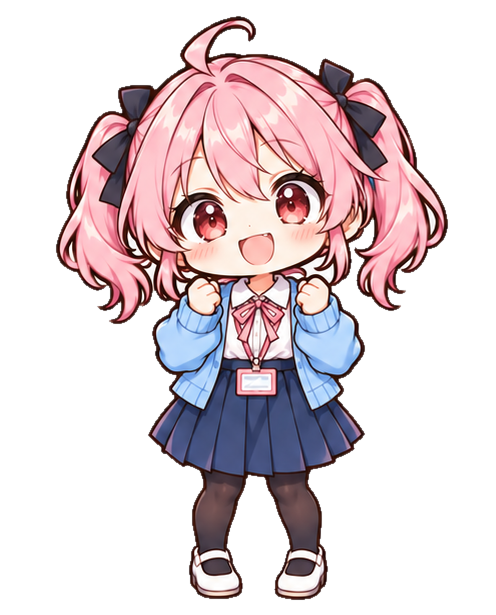
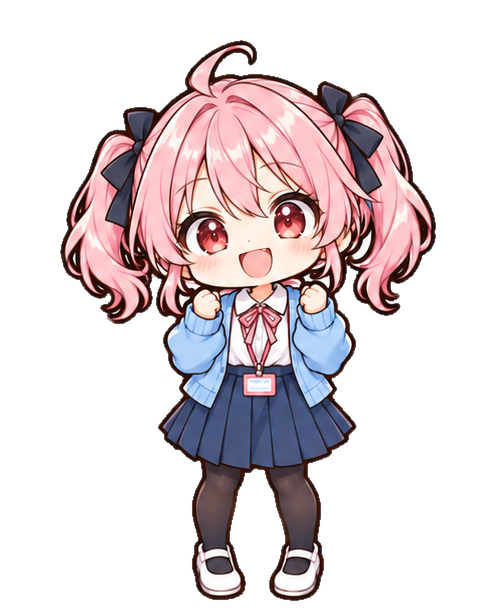
art: 基本ポーズのまばたき・口パク差分（目と口だけを位置合わせして差し替え）を追加

Changed region(s): [[0.0907, 0.0309, 0.9073, 0.9886], [0.5444, 0.8033, 0.6653, 0.9886]]

diff --git a/Tools/Make-FaceFrames.py b/Tools/Make-FaceFrames.py
@@ -1,0 +1,89 @@
+# まばたき・口パク用の差分を作る。2×2のシート（左上＝基本、他＝目や口だけ違う絵）から、
+# 基本の絵に「変わった顔の部分だけ」を位置合わせして重ね、体や髪が揺れない差分にする。
+# 使い方: py -3 Tools/Make-FaceFrames.py <シートPNG> <出力フォルダ> <接頭辞> <名前1,名前2,名前3,名前4>
+import sys
+from pathlib import Path
+import numpy as np
+from PIL import Image, ImageFilter
+sys.path.insert(0, str(Path(__file__).parent))
+from importlib import import_module
+cut = import_module("Cut-CharacterSheet")
+
+def cells(sheet):
+    img = cut.remove_background(Image.open(sheet))
+    w, h = img.size
+    out = []
+    for r in range(2):
+        for c in range(2):
+            cell = img.crop((c * w // 2, r * h // 2, (c + 1) * w // 2, (r + 1) * h // 2))
+            out.append(cell.crop(cell.getchannel("A").getbbox()))
+    return out
+
+def align(base, other, search=24):
+    b = np.asarray(base.convert("L"), dtype=np.float32)
+    o = np.asarray(other.convert("L"), dtype=np.float32)
+    H, W = min(b.shape[0], o.shape[0]) - 2 * search, min(b.shape[1], o.shape[1]) - 2 * search
+    ref = b[search:search + H // 2, search:search + W]  # 頭側の半分で合わせる
+    best = (1e18, 0, 0)
+    for dy in range(-search, search + 1, 2):
+        for dx in range(-search, search + 1, 2):
+            win = o[search + dy:search + dy + H // 2, search + dx:search + dx + W]
+            if win.shape != ref.shape:
+                continue
+            d = float(np.abs(win - ref).mean())
+            if d < best[0]:
+                best = (d, dx, dy)
+    return best[1], best[2]
+
+def main():
+    sheet, out_dir, prefix, names = sys.argv[1], Path(sys.argv[2]), sys.argv[3], sys.argv[4].split(",")
+    out_dir.mkdir(parents=True, exist_ok=True)
+    cs = cells(sheet)
+    base = cs[0].convert("RGBA")
+    base.save(out_dir / f"{prefix}_{names[0]}.png")
+    bw, bh = base.size
+    # 瞳の赤で目の位置を見つけ、目から口までを「顔の範囲」にする（髪や体は基本の絵のまま）
+    px = np.asarray(base, dtype=np.int16)
+    # 瞳の濃い赤だけ（髪の影のピンクを拾わない）
+    red = (px[..., 0] > 150) & (px[..., 1] < 70) & (px[..., 2] < 80) & (px[..., 0] - px[..., 1] > 100) & (px[..., 3] > 200)
+    # 3頭身の目は全身の高さの15〜38%あたり。リボンタイ・名札の赤を拾わないよう範囲を絞る
+    red[:int(bh * 0.15), :] = False
+    red[int(bh * 0.38):, :] = False
+    red[:, :int(bw * 0.2)] = False
+    red[:, int(bw * 0.8):] = False
+    ys, xs = np.nonzero(red)
+    ex0, ex1 = np.percentile(xs, 2), np.percentile(xs, 98)
+    ey0, ey1 = np.percentile(ys, 2), np.percentile(ys, 98)
+    eh, ew = ey1 - ey0, ex1 - ex0
+    # 開いた口の中も濃い赤なので、赤の範囲＝両目＋口。少しだけ広げる
+    box = (int(ex0 - ew * 0.1), int(ey0 - eh * 0.25), int(ex1 + ew * 0.1), int(ey1 + eh * 0.25))
+    print("赤の範囲", (int(ex0), int(ey0), int(ex1), int(ey1)), "全身", (bw, bh))
+    region = Image.new("L", base.size, 0)
+    region.paste(255, (box[0] + 6, box[1] + 6, box[2] - 6, box[3] - 6))
+    region = region.filter(ImageFilter.GaussianBlur(5))
+    for cell, name in zip(cs[1:], names[1:]):
+        # 顔の範囲の周りだけで位置を合わせる
+        pad = 14
+        ref = np.asarray(base.convert("L"), dtype=np.float32)[box[1]:box[3], box[0]:box[2]]
+        oth = np.asarray(cell.convert("L"), dtype=np.float32)
+        best = (1e18, 0, 0)
+        for dy in range(-pad, pad + 1):
+            for dx in range(-pad, pad + 1):
+                y0, x0 = box[1] + dy, box[0] + dx
+                win = oth[y0:y0 + ref.shape[0], x0:x0 + ref.shape[1]]
+                if y0 < 0 or x0 < 0 or win.shape != ref.shape:
+                    continue
+                # 目と口は変わるので、範囲の外周（髪・輪郭）の一致で比べる
+                d = float(np.abs(win - ref)[[0, 1, 2, -3, -2, -1], :].mean() + np.abs(win - ref)[:, [0, 1, 2, -3, -2, -1]].mean())
+                if d < best[0]:
+                    best = (d, dx, dy)
+        dx, dy = best[1], best[2]
+        moved = Image.new("RGBA", base.size, (0, 0, 0, 0))
+        moved.paste(cell, (-dx, -dy), cell)
+        frame = base.copy()
+        frame.paste(moved, (0, 0), Image.composite(region, Image.new("L", base.size, 0), moved.getchannel("A")))
+        frame.save(out_dir / f"{prefix}_{name}.png")
+        print(name, "ずれ", (dx, dy), "顔の範囲", box)
+
+if __name__ == "__main__":
+    main()

diff --git a/Docs/Mockups/Hinata-Motion.md b/Docs/Mockups/Hinata-Motion.md
@@ -32,10 +32,18 @@
 
 ## ② まばたき・口パク
 
-新デザインのシートには、まばたき・口パク用の顔差分が無い。先に仕組みを作り、素材が無い間は今の1枚のままで動くようにする。
+**9/29：基本ポーズ（`pose_fists`）の差分を用意済み**（`ArtSource/Hinata/gen-20260929/final/`、共通キャンバス496×615）。
 
-- 必要な素材（`face_normal`と同じキャンバス・位置で、目または口だけ違う絵）：`eyes_half`、`eyes_closed`、`mouth_open`、`mouth_mid`。ポーズごとに作るのは負担が大きいので、**顔の部分だけを重ねる方式**にする（顔の位置は各ポーズで記録しておく）。
-- 素材はClaudeがChatGPTで生成・切り抜きして用意する（同じ会話の続きで作ると絵柄がそろう）。
+| ファイル | 中身 |
+|---|---|
+| `pose_fists.png` | 基本（目を開けて口を開けた笑顔）。**差し替えに合わせて、この絵も新しくした** |
+| `pose_fists_eyes_half.png` | 半目 |
+| `pose_fists_eyes_closed.png` | 目を閉じる |
+| `pose_fists_mouth_closed.png` | 口を閉じた笑顔（口パクの「閉」） |
+
+- 4枚は同じ絵の上で**目と口の範囲だけ**を差し替えてある（`Tools/Make-FaceFrames.py`：瞳と口の濃い赤から顔の範囲を見つけ、位置を合わせて重ねる）。髪・体は完全に同じなので、切り替えても揺れない。
+- 仕組みは「ポーズIDごとに、差分があれば使い、無ければ1枚のまま」。ほかのポーズ・表情の差分は、同じ方法で順次追加する（ClaudeがChatGPTの同じ会話で生成）。
+- まばたき：開→半→閉→半→開。口パク：開（基本）↔閉を交互に。
 - まばたき：3〜5秒に1回のランダム。開→半→閉→半→開を合計0.15秒。たまに2回続ける（2割）。
 - 口パク：文字送り中だけ、0.08〜0.12秒ごとに開→中→閉をランダムに。句読点で閉じる。声がある場合は声の音量に合わせる。
 
